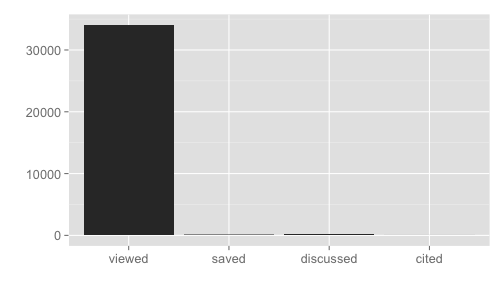
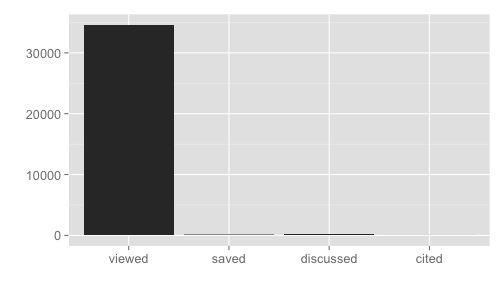
updated readme, fixed missing alt tag in rofooter image, fixes #41

diff --git a/README.md b/README.md
@@ -91,22 +91,22 @@ alm_ids(doi = "10.1371/journal.pone.0029797")
 ## $data
 ##                       .id  pdf  html readers comments likes  total
 ## 1               citeulike   NA    NA       1       NA    NA      1
-## 2                crossref   NA    NA      NA       NA    NA      8
+## 2                crossref   NA    NA      NA       NA    NA      7
 ## 3                  nature   NA    NA      NA       NA    NA      4
 ## 4                  pubmed   NA    NA      NA       NA    NA      2
-## 5                  scopus   NA    NA      NA       NA    NA      8
-## 6                 counter 2524 30801      NA       NA    NA  33443
+## 5                  scopus   NA    NA      NA       NA    NA      9
+## 6                 counter 2550 31308      NA       NA    NA  33980
 ## 7        researchblogging   NA    NA      NA       NA    NA      1
 ## 8                     wos   NA    NA      NA       NA    NA      7
 ## 9                     pmc   78   534      NA       NA    NA    612
-## 10               facebook   NA    NA     149       22    60    231
+## 10               facebook   NA    NA     150       22    60    232
 ## 11               mendeley   NA    NA      80       NA    NA     80
 ## 12                twitter   NA    NA      NA       12    NA     12
-## 13              wikipedia   NA    NA      NA       NA    NA     50
+## 13              wikipedia   NA    NA      NA       NA    NA     49
 ## 14          scienceseeker   NA    NA      NA       NA    NA      0
 ## 15         relativemetric   NA    NA      NA       NA    NA 157436
 ## 16                  f1000   NA    NA      NA       NA    NA      0
-## 17               figshare    0    21      NA       NA     0     21
+## 17               figshare    0    25      NA       NA     0     25
 ## 18              pmceurope   NA    NA      NA       NA    NA      4
 ## 19          pmceuropedata   NA    NA      NA       NA    NA     49
 ## 20            openedition   NA    NA      NA       NA    NA      0
@@ -117,6 +117,7 @@ alm_ids(doi = "10.1371/journal.pone.0029797")
 ## 25        articlecoverage   NA    NA      NA        0    NA      0
 ## 26 articlecoveragecurated   NA    NA      NA        0    NA      0
 ## 27          plos_comments   NA    NA      NA       11    NA     16
+## 28                  orcid   NA    NA       0       NA    NA      0
 ```
 
 ### Details for a single DOI
@@ -134,40 +135,42 @@ alm_ids(doi = "10.1371/journal.pone.0029797", info = "detail")
 ## 
 ## $data
 ## $data$info
-##                            doi
-## 1 10.1371/journal.pone.0029797
+##                                 id
+## 1 doi/10.1371/journal.pone.0029797
 ##                                                                             title
 ## 1 Ecological Guild Evolution and the Discovery of the World's Smallest Vertebrate
-##                                                                canonical_url
-## 1 http://www.plosone.org/article/info%3Adoi%2F10.1371%2Fjournal.pone.0029797
-##       pmid   pmcid                        mendeley_uuid
-## 1 22253785 3256195 897fbbd6-5a23-3552-8077-97251b82c1e1
-##            update_date     issued
-## 1 2014-11-12T21:41:48Z 2012-01-11
+##   publisher_id                          doi
+## 1          340 10.1371/journal.pone.0029797
+##                                                          canonical_url
+## 1 http://www.plosone.org/article/info:doi/10.1371/journal.pone.0029797
+##       pmid   pmcid         scp             wos          update_date
+## 1 22253785 3256195 84855712734 000301355700052 2015-01-06T19:10:32Z
+##       issued
+## 1 2012-01-11
 ## 
 ## $data$signposts
 ##                            doi viewed saved discussed cited
-## 1 10.1371/journal.pone.0029797  34055    81       243     8
+## 1 10.1371/journal.pone.0029797  34592    81       244     9
 ## 
 ## $data$totals
 ##                       .id  pdf  html readers comments likes  total
 ## 1               citeulike   NA    NA       1       NA    NA      1
-## 2                crossref   NA    NA      NA       NA    NA      8
+## 2                crossref   NA    NA      NA       NA    NA      7
 ## 3                  nature   NA    NA      NA       NA    NA      4
 ## 4                  pubmed   NA    NA      NA       NA    NA      2
-## 5                  scopus   NA    NA      NA       NA    NA      8
-## 6                 counter 2524 30801      NA       NA    NA  33443
+## 5                  scopus   NA    NA      NA       NA    NA      9
+## 6                 counter 2550 31308      NA       NA    NA  33980
 ## 7        researchblogging   NA    NA      NA       NA    NA      1
 ## 8                     wos   NA    NA      NA       NA    NA      7
 ## 9                     pmc   78   534      NA       NA    NA    612
-## 10               facebook   NA    NA     149       22    60    231
+## 10               facebook   NA    NA     150       22    60    232
 ## 11               mendeley   NA    NA      80       NA    NA     80
 ## 12                twitter   NA    NA      NA       12    NA     12
-## 13              wikipedia   NA    NA      NA       NA    NA     50
+## 13              wikipedia   NA    NA      NA       NA    NA     49
 ## 14          scienceseeker   NA    NA      NA       NA    NA      0
 ## 15         relativemetric   NA    NA      NA       NA    NA 157436
 ## 16                  f1000   NA    NA      NA       NA    NA      0
-## 17               figshare    0    21      NA       NA     0     21
+## 17               figshare    0    25      NA       NA     0     25
 ## 18              pmceurope   NA    NA      NA       NA    NA      4
 ## 19          pmceuropedata   NA    NA      NA       NA    NA     49
 ## 20            openedition   NA    NA      NA       NA    NA      0
@@ -178,6 +181,7 @@ alm_ids(doi = "10.1371/journal.pone.0029797", info = "detail")
 ## 25        articlecoverage   NA    NA      NA        0    NA      0
 ## 26 articlecoveragecurated   NA    NA      NA        0    NA      0
 ## 27          plos_comments   NA    NA      NA       11    NA     16
+## 28                  orcid   NA    NA       0       NA    NA      0
 ## 
 ## $data$sum_metrics
 ##                .id year month day total X[[1L]]
@@ -268,7 +272,7 @@ names(out)  # names of sources
 ##  [7] "researchblogging" "pmc"              "facebook"        
 ## [10] "mendeley"         "twitter"          "wikipedia"       
 ## [13] "relativemetric"   "figshare"         "pmceuropedata"   
-## [16] "plos_comments"
+## [16] "plos_comments"    "orcid"
 ```
 
 
@@ -435,27 +439,6 @@ crkey <- getOption("crossrefalmkey")
 alm_ids(doi='10.1371/journal.pone.0086859', url = crurl, key = crkey)
 ```
 
-```
-## $meta
-##   total total_pages page error
-## 1     1           1    1    NA
-## 
-## $data
-##              .id pdf html readers comments likes total
-## 1       crossref  NA   NA      NA       NA    NA     0
-## 2       mendeley  NA   NA      NA       NA    NA     0
-## 3       facebook  NA   NA      NA       NA    NA     0
-## 4            pmc  NA   NA      NA       NA    NA     0
-## 5      citeulike  NA   NA      NA       NA    NA     0
-## 6         pubmed  NA   NA      NA       NA    NA     0
-## 7      wordpress  NA   NA      NA       NA    NA     0
-## 8         reddit  NA   NA      NA       NA    NA     0
-## 9      wikipedia  NA   NA      NA       NA    NA     2
-## 10      datacite  NA   NA      NA       NA    NA     0
-## 11     pmceurope  NA   NA      NA       NA    NA     0
-## 12 pmceuropedata  NA   NA      NA       NA    NA     0
-```
-
 eLife
 
 
@@ -472,19 +455,19 @@ alm_ids(doi='10.7554/eLife.00471', url = elifeurl, key = elifekey)
 ## 
 ## $data
 ##               .id pdf html shares groups comments likes citations total
-## 1             pmc 337  884     NA     NA       NA    NA        NA  1221
-## 2        crossref  NA   NA     NA     NA       NA    NA       139   139
-## 3          scopus  NA   NA     NA     NA       NA    NA       138   138
+## 1             pmc 485 1109     NA     NA       NA    NA        NA  1594
+## 2        crossref  NA   NA     NA     NA       NA    NA       154   154
+## 3          scopus  NA   NA     NA     NA       NA    NA       149   149
 ## 4        facebook  NA   NA      3     NA        0     0        NA     3
 ## 5        mendeley  NA   NA    454      0       NA    NA        NA   454
 ## 6  twitter_search  NA   NA     NA     NA        0    NA        NA     0
 ## 7       citeulike  NA   NA      1     NA       NA    NA        NA     1
-## 8          pubmed  NA   NA     NA     NA       NA    NA        80    80
+## 8          pubmed  NA   NA     NA     NA       NA    NA        96    96
 ## 9       wordpress  NA   NA     NA     NA       NA    NA         0     0
 ## 10         reddit  NA   NA     NA     NA        0     0        NA     0
-## 11      wikipedia  NA   NA     NA     NA       NA    NA         0     0
+## 11      wikipedia  NA   NA     NA     NA       NA    NA         1     1
 ## 12       datacite  NA   NA     NA     NA       NA    NA         0     0
-## 13      pmceurope  NA   NA     NA     NA       NA    NA       135   135
+## 13      pmceurope  NA   NA     NA     NA       NA    NA       144   144
 ## 14  pmceuropedata  NA   NA     NA     NA       NA    NA         1     1
 ## 15  scienceseeker  NA   NA     NA     NA       NA    NA         0     0
 ## 16         nature  NA   NA     NA     NA       NA    NA         0     0
@@ -515,23 +498,23 @@ alm_ids(doi='10.3897/zookeys.88.807', url = psurl, key = pskey)
 ## $data
 ##               .id pdf html readers comments likes total
 ## 1        facebook  NA   NA      NA       NA    NA     0
-## 2      copernicus   0    0      NA       NA    NA     0
-## 3       wikipedia  NA   NA      NA       NA    NA   136
-## 4          nature  NA   NA      NA       NA    NA     0
-## 5       citeulike  NA   NA       1       NA    NA     1
-## 6        crossref  NA   NA      NA       NA    NA    81
-## 7        datacite  NA   NA      NA       NA    NA     0
-## 8   pmceuropedata  NA   NA      NA       NA    NA     0
-## 9          pubmed  NA   NA      NA       NA    NA    51
-## 10          f1000  NA   NA      NA       NA    NA     0
-## 11         scopus  NA   NA      NA       NA    NA   176
-## 12       figshare  NA   NA      NA       NA    NA     0
-## 13        counter  NA   NA      NA       NA    NA     0
-## 14       mendeley  NA   NA     123       NA    NA   123
-## 15         reddit  NA   NA      NA        0     0     0
-## 16 twitter_search  NA   NA      NA        0    NA     0
-## 17      wordpress  NA   NA      NA       NA    NA     0
-## 18      pmceurope  NA   NA      NA       NA    NA    52
+## 2       citeulike  NA   NA       1       NA    NA     1
+## 3        mendeley  NA   NA     123       NA    NA   123
+## 4       wikipedia  NA   NA      NA       NA    NA   136
+## 5        datacite  NA   NA      NA       NA    NA     0
+## 6      copernicus   0    0      NA       NA    NA     0
+## 7          nature  NA   NA      NA       NA    NA     0
+## 8           f1000  NA   NA      NA       NA    NA     0
+## 9   pmceuropedata  NA   NA      NA       NA    NA     0
+## 10       figshare  NA   NA      NA       NA    NA     0
+## 11        counter  NA   NA      NA       NA    NA     0
+## 12       crossref  NA   NA      NA       NA    NA    81
+## 13         reddit  NA   NA      NA        0     0     0
+## 14 twitter_search  NA   NA      NA        0    NA     0
+## 15      wordpress  NA   NA      NA       NA    NA     0
+## 16         scopus  NA   NA      NA       NA    NA   176
+## 17      pmceurope  NA   NA      NA       NA    NA    52
+## 18         pubmed  NA   NA      NA       NA    NA    51
 ```
 
 ## Meta
@@ -540,4 +523,4 @@ alm_ids(doi='10.3897/zookeys.88.807', url = psurl, key = pskey)
 * License: MIT
 * Get citation information for `alm` in R doing `citation(package = 'alm')`
 
-[![](http://ropensci.org/public_images/github_footer.png)](http://ropensci.org)
+[![rofooter](http://ropensci.org/public_images/github_footer.png)](http://ropensci.org)
